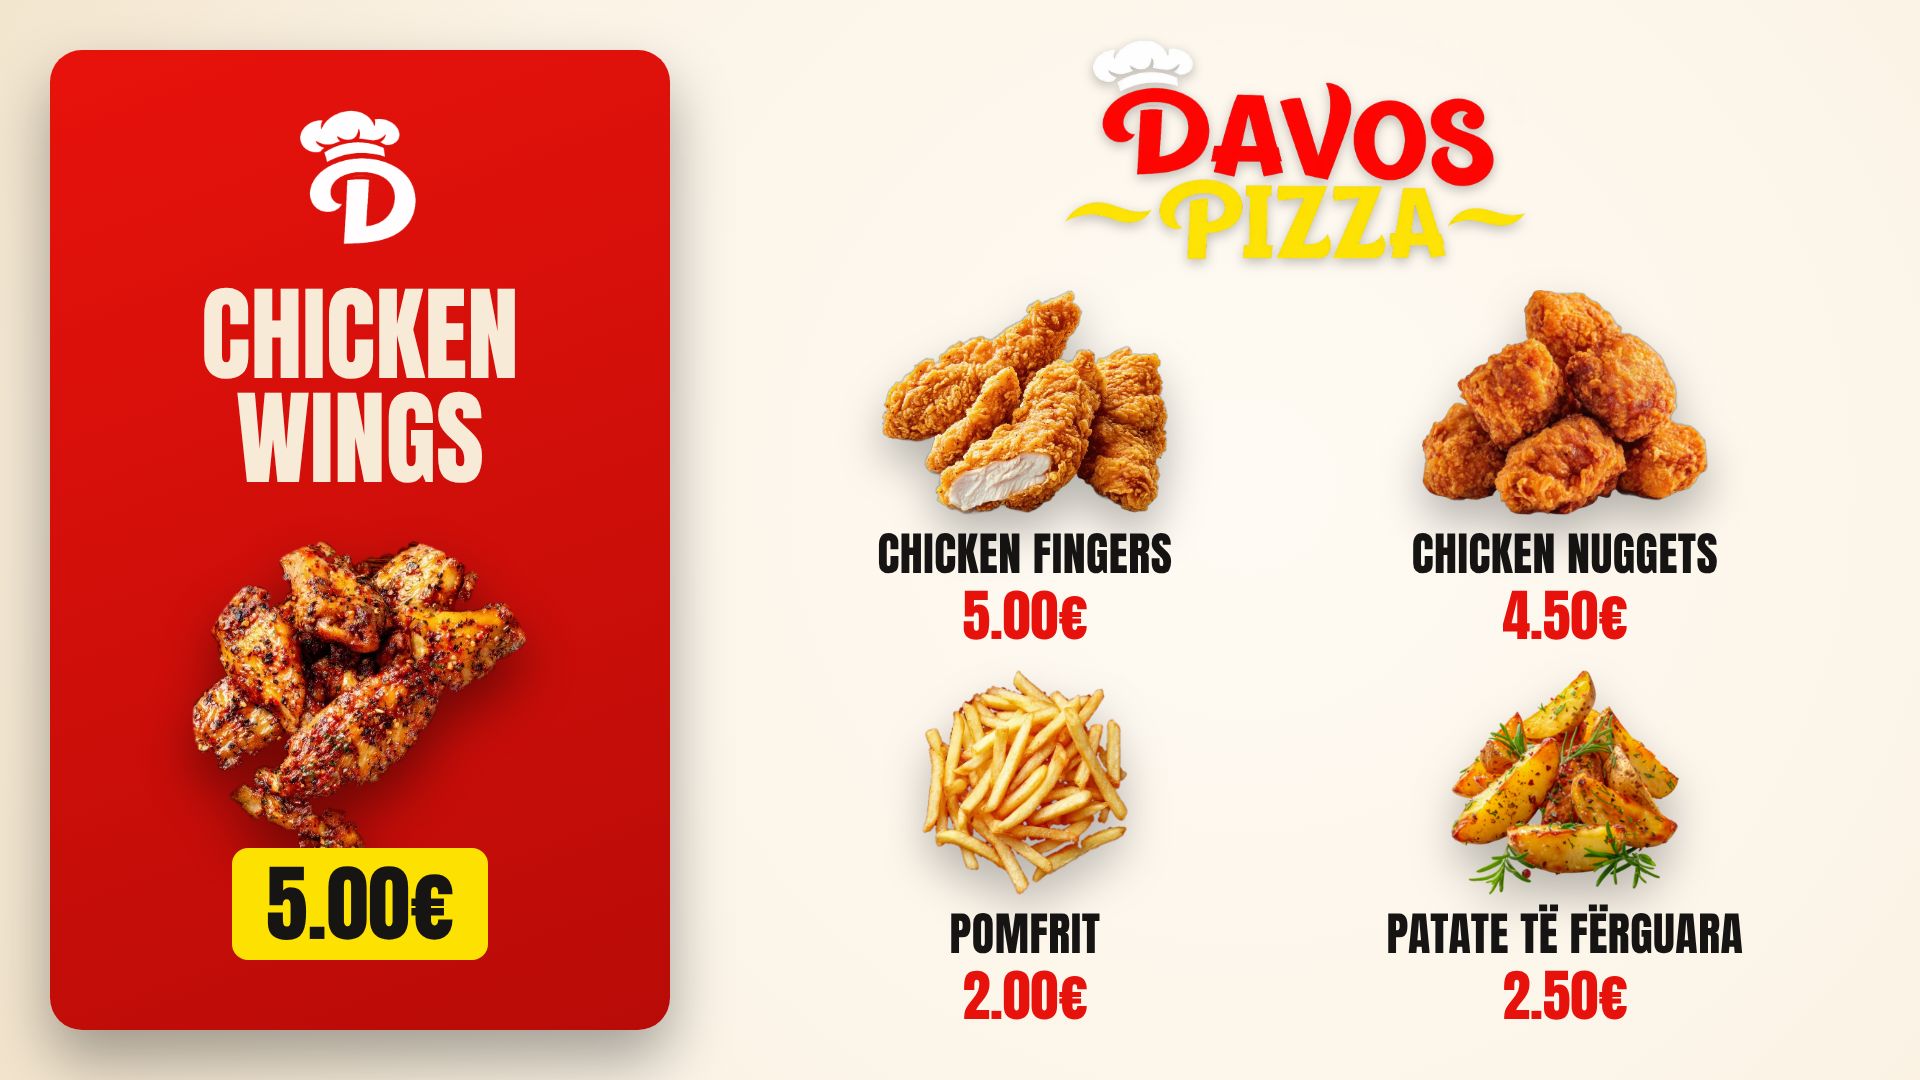
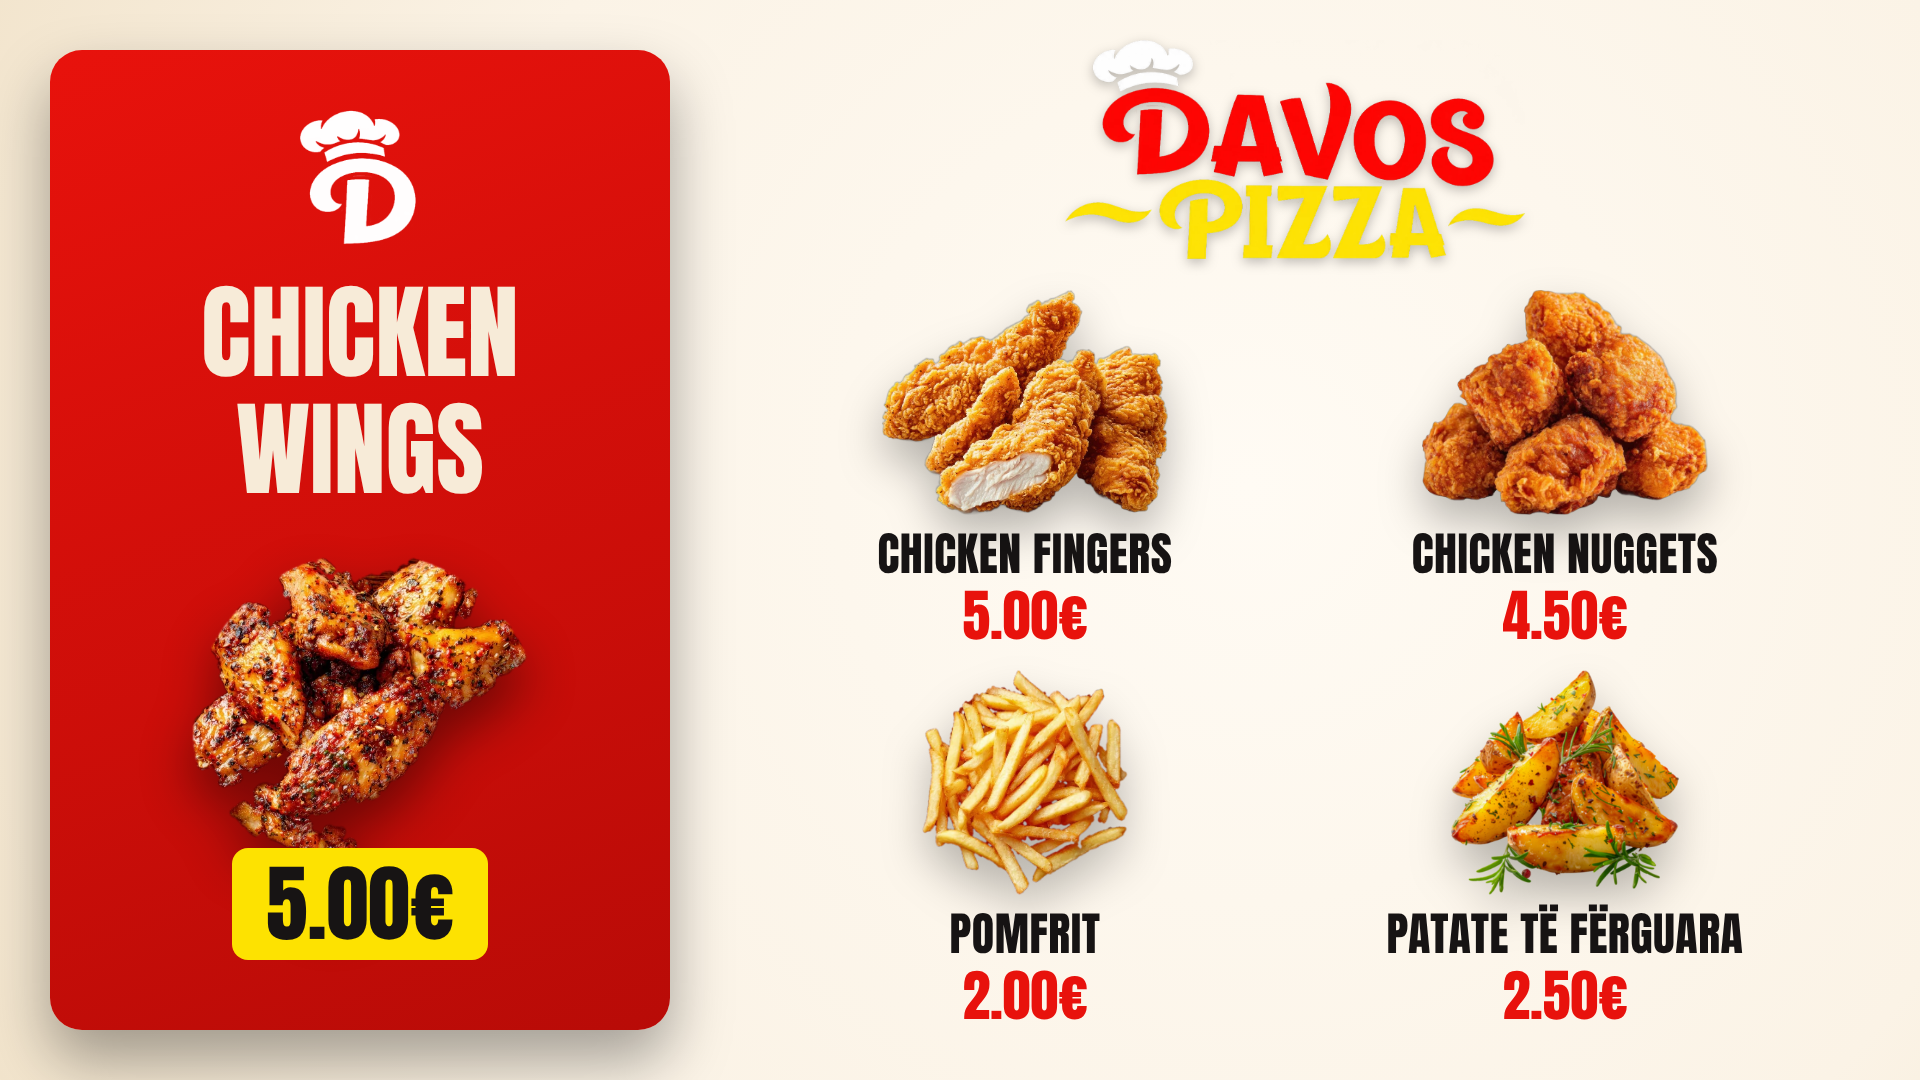
Add Davos sauces menu; more line spacing on red card titles
Claude-Session: https://claude.ai/code/session_01Xb7jPxrPq6UpPr8fj4vFP7

Changed region(s): [[0.0938, 0.4889, 0.2812, 0.7944], [0.125, 0.3361, 0.25, 0.4583]]

diff --git a/videos/davos-burgers/src/SandwichMenu.tsx b/videos/davos-burgers/src/SandwichMenu.tsx
@@ -1,6 +1,6 @@
 import React from "react";
 import { AbsoluteFill, Img, staticFile, useCurrentFrame } from "remotion";
-import { COLORS, CURRENCY, SAMUNS, SANDWICHES, SNACKS, TORTILLAS } from "./config";
+import { COLORS, CURRENCY, SAMUNS, SANDWICHES, SAUCES, SNACKS, TORTILLAS } from "./config";
 import { anton, Camera, drift, inP } from "./lib";
 
 const shadow = "drop-shadow(0 22px 22px rgba(0,0,0,0.28))";
@@ -23,11 +23,15 @@ export const SnacksMenu: React.FC<{ animate?: boolean }> = ({ animate }) => (
   <ProductMenu items={SNACKS} prefix="sn" animate={animate} />
 );
 
+export const SaucesMenu: React.FC<{ animate?: boolean }> = ({ animate }) => (
+  <ProductMenu items={SAUCES} prefix="ss" animate={animate} />
+);
+
 /** Shared single-price menu: first item on the red card, the rest in a grid. */
 const ProductMenu: React.FC<{ items: Item[]; prefix: string; animate?: boolean }> = ({ items, prefix, animate = false }) => {
   const frame = useCurrentFrame();
   const [hero, ...rest] = items;
-  const cols = rest.length === 4 ? 2 : 3;
+  const cols = rest.length === 4 || rest.length === 2 ? 2 : 3;
   const colW = cols === 2 ? 540 : 400;
   const oneRow = rest.length <= 3; // a single row gets bigger photos, centered vertically
   const imgH = oneRow ? 320 : cols === 2 ? 225 : 200;
@@ -59,7 +63,7 @@ const ProductMenu: React.FC<{ items: Item[]; prefix: string; animate?: boolean }
         }}
       >
         <Img src={staticFile("icon-white.png")} style={{ width: 120, marginTop: 56 }} />
-        <div style={{ fontFamily: anton, fontSize: 104, lineHeight: 1, color: COLORS.cream, marginTop: 30, textAlign: "center" }}>
+        <div style={{ fontFamily: anton, fontSize: 104, lineHeight: 1.12, color: COLORS.cream, marginTop: 22, textAlign: "center" }}>
           {hero.line1}
           <br />
           {hero.line2}
@@ -103,7 +107,7 @@ const ProductMenu: React.FC<{ items: Item[]; prefix: string; animate?: boolean }
         return (
           <div key={s.id} style={{ position: "absolute", left: cx - 195, top, width: 390, textAlign: "center", opacity: Math.min(1, p0), transform: `translateY(${(1 - p0) * 90}px)` }}>
             <div style={{ height: imgH, display: "flex", alignItems: "flex-end", justifyContent: "center" }}>
-              <Img src={staticFile(`${prefix}-${s.id}.png`)} style={{ maxWidth: oneRow ? 380 : cols === 2 ? 420 : 360, maxHeight: imgH, filter: shadow, transform: `translateY(${d(i * 30, 4)}px) translateX(${(1 - p0) * 80}px)` }} />
+              <Img src={staticFile(`${prefix}-${s.id}.png`)} style={{ maxWidth: oneRow ? (cols === 2 ? 420 : 380) : cols === 2 ? 420 : 360, maxHeight: imgH, filter: shadow, transform: `translateY(${d(i * 30, 4)}px) translateX(${(1 - p0) * 80}px)` }} />
             </div>
             <div style={{ fontFamily: anton, fontSize: 46, color: COLORS.dark, marginTop: 16, letterSpacing: 0.5, lineHeight: 1, whiteSpace: "nowrap" }}>
               {[s.line1, s.line2].filter(Boolean).join(" ")}

diff --git a/videos/davos-burgers/src/Root.tsx b/videos/davos-burgers/src/Root.tsx
@@ -3,13 +3,14 @@ import { Composition } from "remotion";
 import { FPS, T } from "./config";
 import { DavosBurgers } from "./Video";
 import { PizzaMenu } from "./PizzaMenu";
-import { SamunMenu, SandwichMenu, SnacksMenu, TortillaMenu } from "./SandwichMenu";
+import { SamunMenu, SandwichMenu, SaucesMenu, SnacksMenu, TortillaMenu } from "./SandwichMenu";
 import { MENUS_TOTAL, MenusVideo } from "./MenusVideo";
 
 export const Root: React.FC = () => (
   <>
     <Composition id="DavosBurgers" component={DavosBurgers} durationInFrames={T.total} fps={FPS} width={1920} height={1080} />
     <Composition id="MenusVideo" component={MenusVideo} durationInFrames={MENUS_TOTAL} fps={FPS} width={1920} height={1080} />
+    <Composition id="SaucesMenu" component={SaucesMenu} durationInFrames={1} fps={FPS} width={1920} height={1080} />
     <Composition id="SnacksMenu" component={SnacksMenu} durationInFrames={1} fps={FPS} width={1920} height={1080} />
     <Composition id="TortillaMenu" component={TortillaMenu} durationInFrames={1} fps={FPS} width={1920} height={1080} />
     <Composition id="SamunMenu" component={SamunMenu} durationInFrames={1} fps={FPS} width={1920} height={1080} />

diff --git a/videos/davos-burgers/src/config.ts b/videos/davos-burgers/src/config.ts
@@ -87,3 +87,10 @@ export const SNACKS: { id: string; line1: string; line2: string; price: string }
   { id: "pomfrit", line1: "", line2: "POMFRIT", price: "2.00" },
   { id: "wedges", line1: "PATATE", line2: "TË FËRGUARA", price: "2.50" },
 ];
+
+// ---------- Sauces menu (static image) ----------
+export const SAUCES: { id: string; line1: string; line2: string; price: string }[] = [
+  { id: "shtepie", line1: "SOS", line2: "SHTËPIE", price: "0.30" },
+  { id: "chilli", line1: "CHILLI", line2: "SOS", price: "0.30" },
+  { id: "hudre", line1: "SOS", line2: "HUDRE", price: "0.30" },
+];
